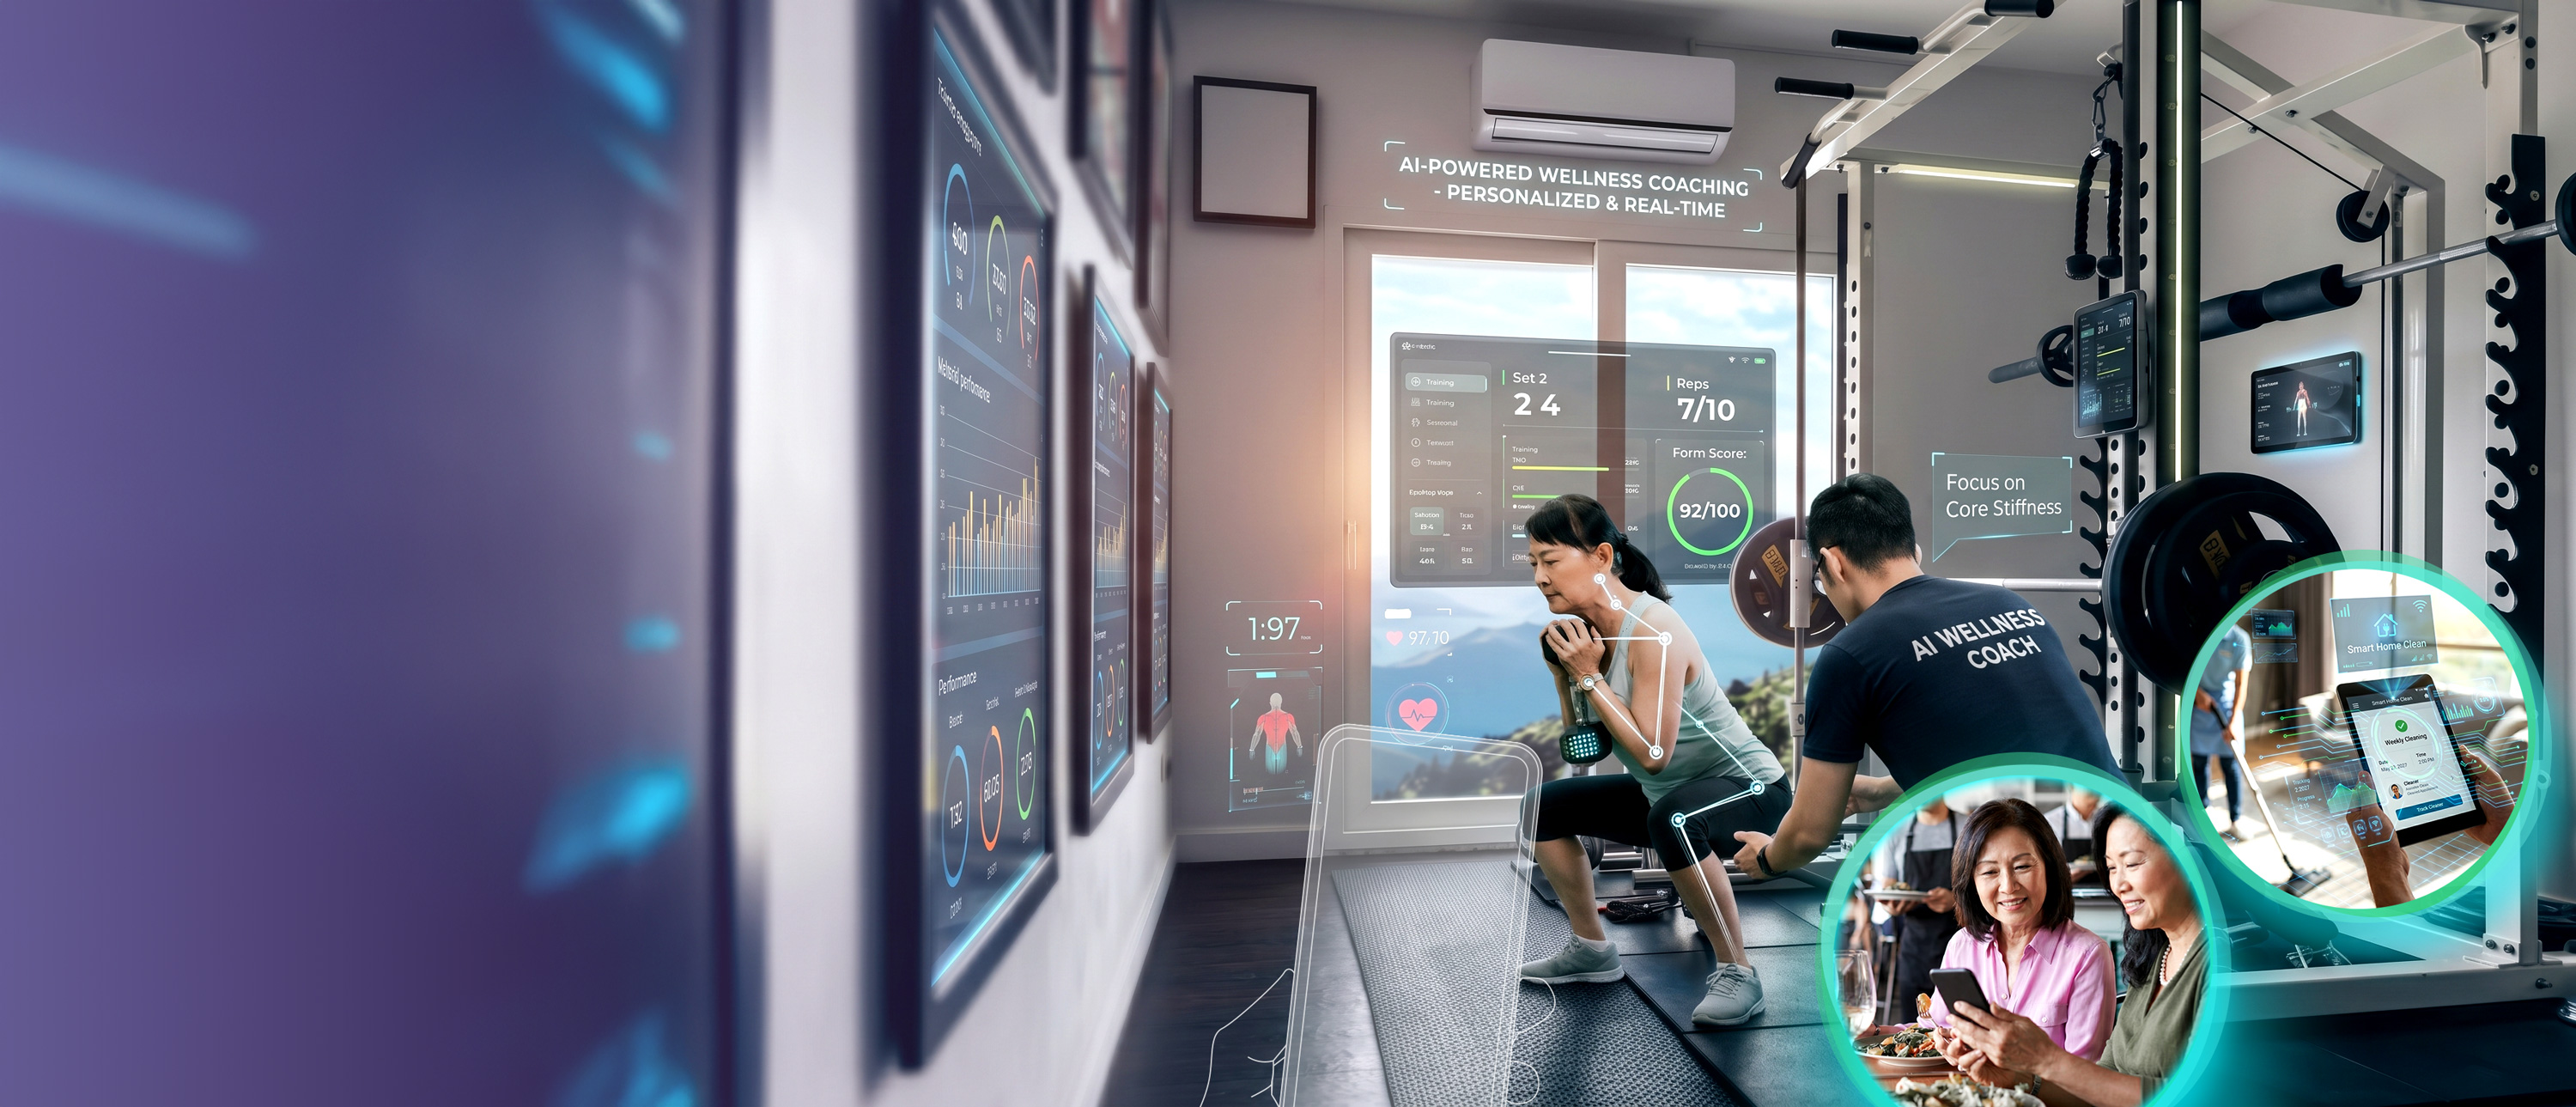
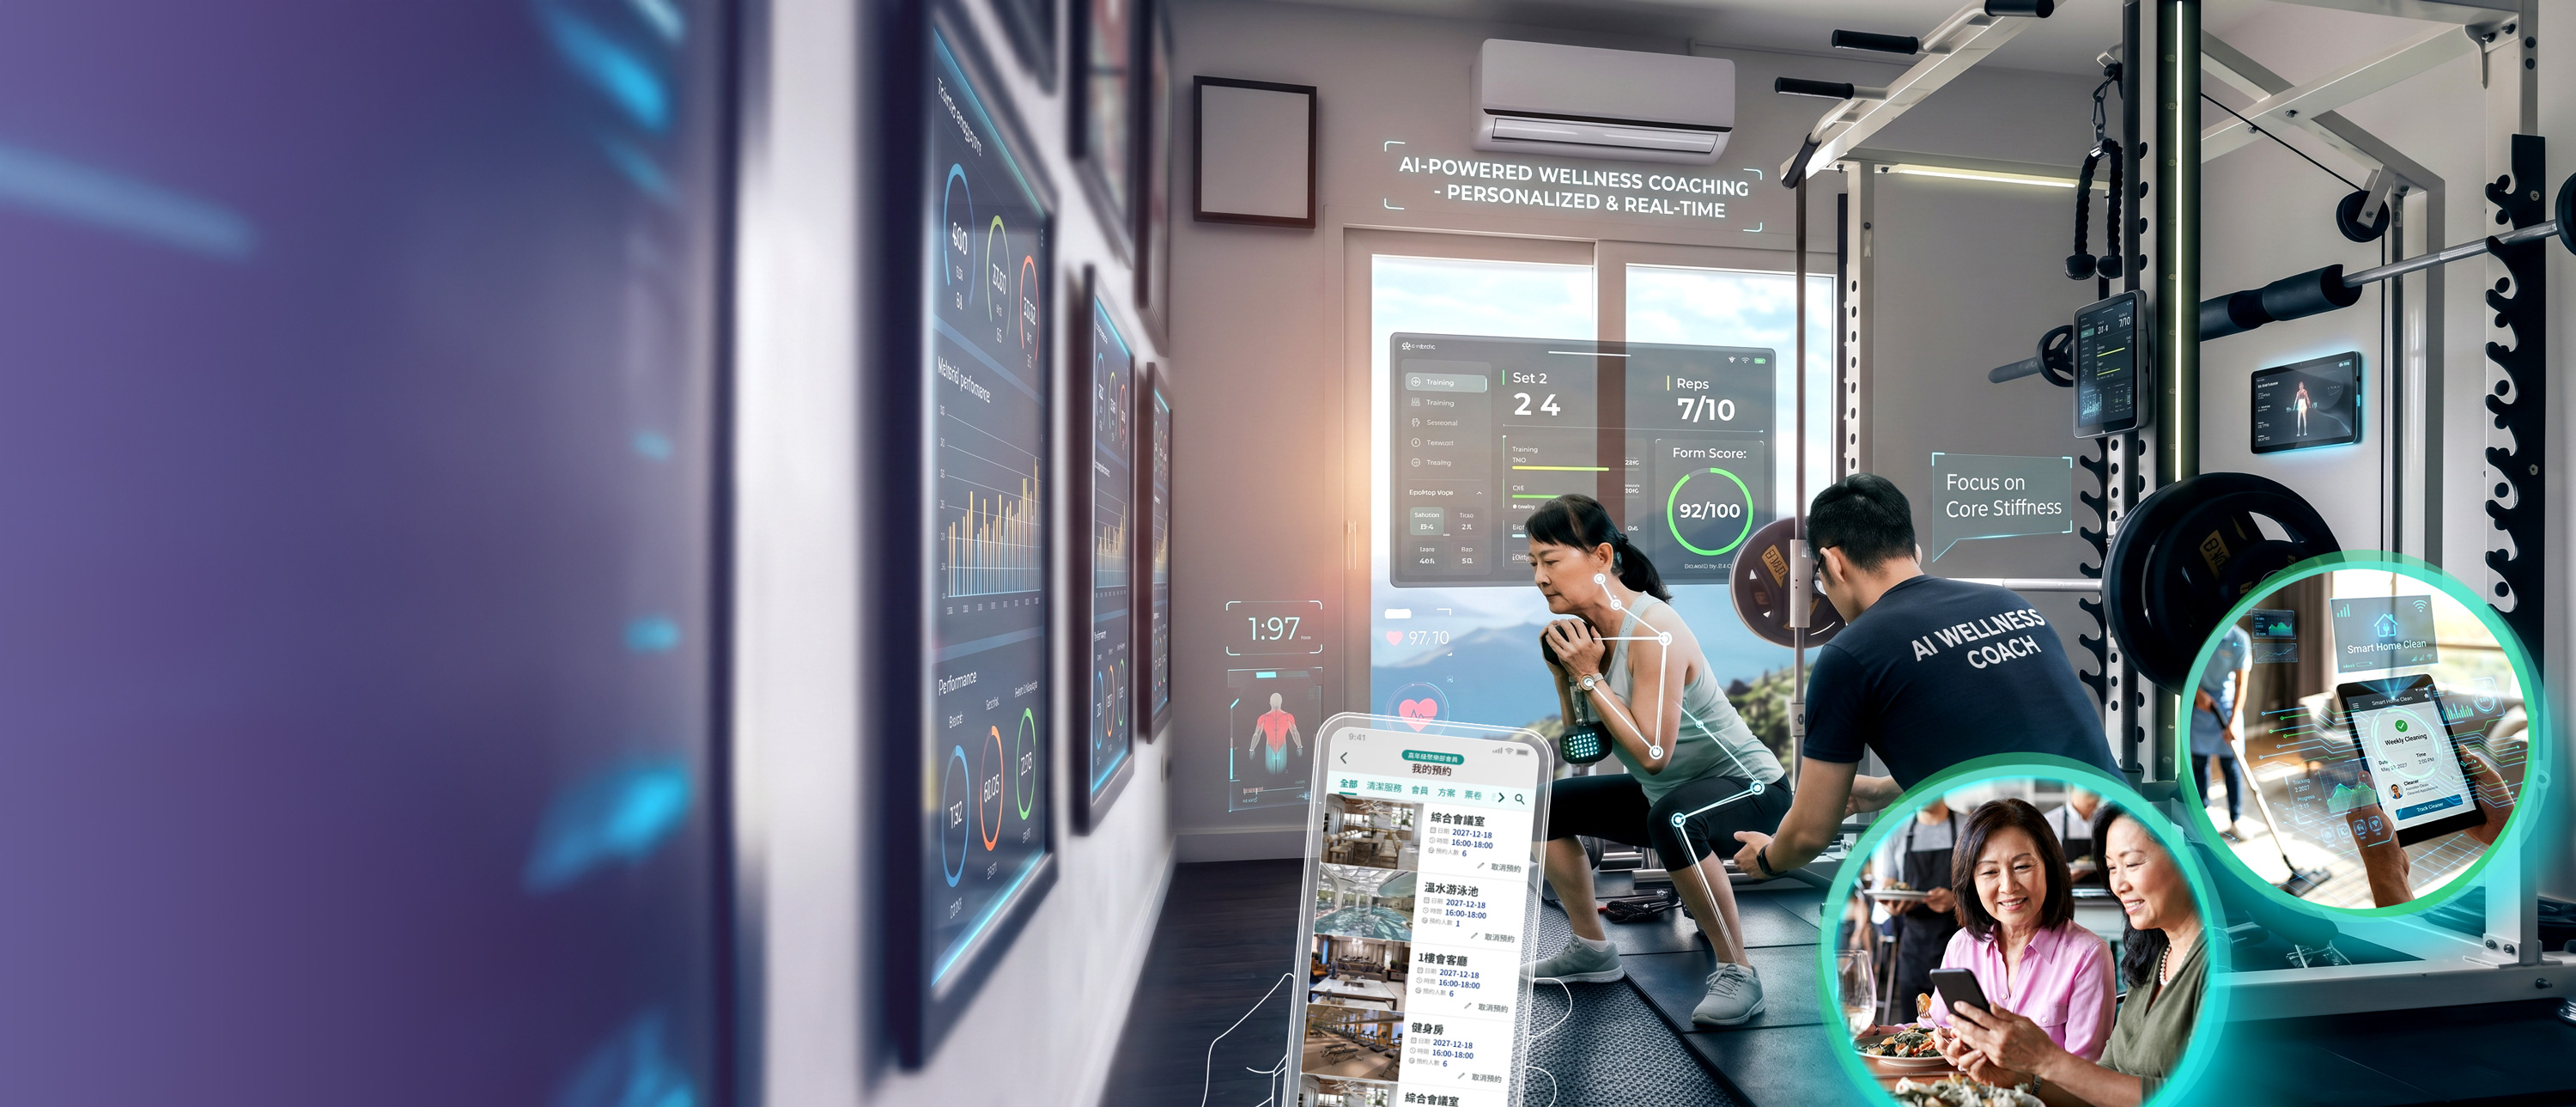
icon_img

Changed region(s): [[0.465, 0.6206, 0.62, 1.0]]

diff --git a/web_EZCON_2024IntelligentBuilding/assets/css/main.css b/web_EZCON_2024IntelligentBuilding/assets/css/main.css
@@ -6425,11 +6425,10 @@ body[data-aos-easing=ease] [data-aos] {
   margin: 1.4rem 0 1rem;
 }
 .sec-title .title.type4 img {
-  width: 120px;
-  margin-top: -10px;
-  margin-left: -18px;
-  padding-top: 1.2rem;
-  filter: drop-shadow(16px 16px 18px #ff0033) invert(355%) hue-rotate(35deg) brightness(3);
+  width: 130px;
+  margin-top: -1rem;
+  margin-left: 0rem;
+  padding-top: 0rem;
 }
 @media (max-width: 767px) {
   .sec-title .title.type4 img {

diff --git a/web_EZCON_2024IntelligentBuilding/certification.html b/web_EZCON_2024IntelligentBuilding/certification.html
@@ -239,7 +239,6 @@
             <!-- float text close --> 
 
             <div id="top"></div>
-
             <section id="certifi-top" data-title='專業認證與資格' class="hero hero-style pos-rel no-top no-bottom">
                 <div class="certifi_startBox jarallax" data-video-src="mp4:video/12379015_1920_1080_30fps.mp4">
                     <div class="mask">
@@ -369,7 +368,7 @@
                                 <h2 class="title type4 text-uppercase wow fadeInUp ">
                                     <span class="bestAI">台灣智慧建築協會 (TIBA) 認證</span>
                                     <!-- <img src="assets/img/icon/original-9e54f87f13d.gif" alt="shape"> -->
-                                    <img src="assets/img/icon/diamond.gif" alt="shape">
+                                    <img src="assets/img/icon/ezgif-transBG_2.gif" alt="shape">
                                     <!-- <br/> -->
                                     <!-- <span class="smaller">頂級溫泉<br/>養生行館</span> -->
                                 </h2>
@@ -431,7 +430,7 @@
                                 <span class="sub-title mb-15">智慧能源與管理能力</span>
                                 <h2 class="title type4 margin_v forPhone_br_show text-uppercase wow fadeInUp ">
                                     <span class="bestAI">智慧財產局發明專利</span><br/>充電樁管控系統及方法
-                                    <img src="assets/img/icon/diamond.gif" alt="shape">
+                                    <img src="assets/img/icon/ezgif-transBG_2.gif" alt="shape">
                                 </h2>
                             </div>
                         </div>
@@ -489,7 +488,7 @@
                                 <h2 class="title type4 margin_v forPhone_br_show text-uppercase wow fadeInUp ">
                                     <span class="bestAI">進入 Intel Edge AI 生態系</span><br/>智慧建築 AI 邊緣應用
                                     <!-- <img src="assets/img/icon/original-9e54f87f13d.gif" alt="shape"> -->
-                                    <img src="assets/img/icon/diamond.gif" alt="shape">
+                                    <img src="assets/img/icon/ezgif-transBG_2.gif" alt="shape">
                                 </h2>
                             </div>
                         </div>